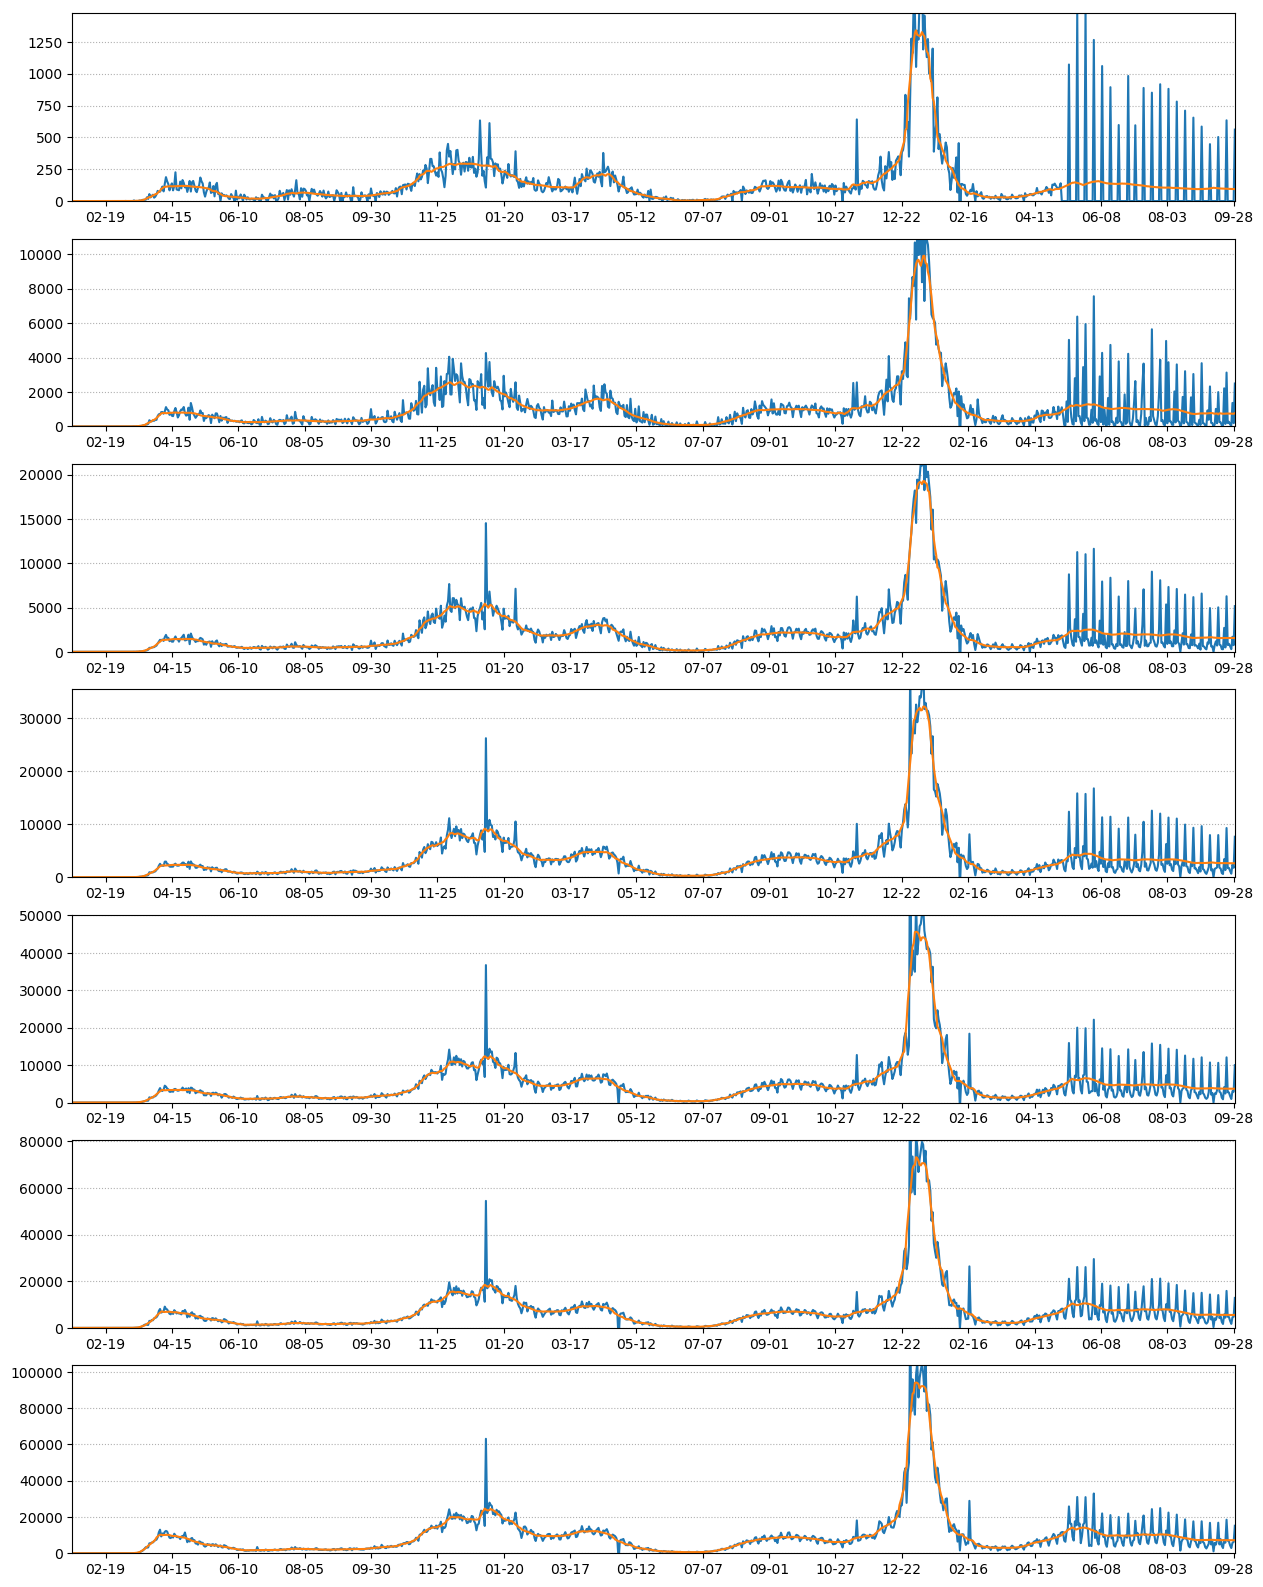
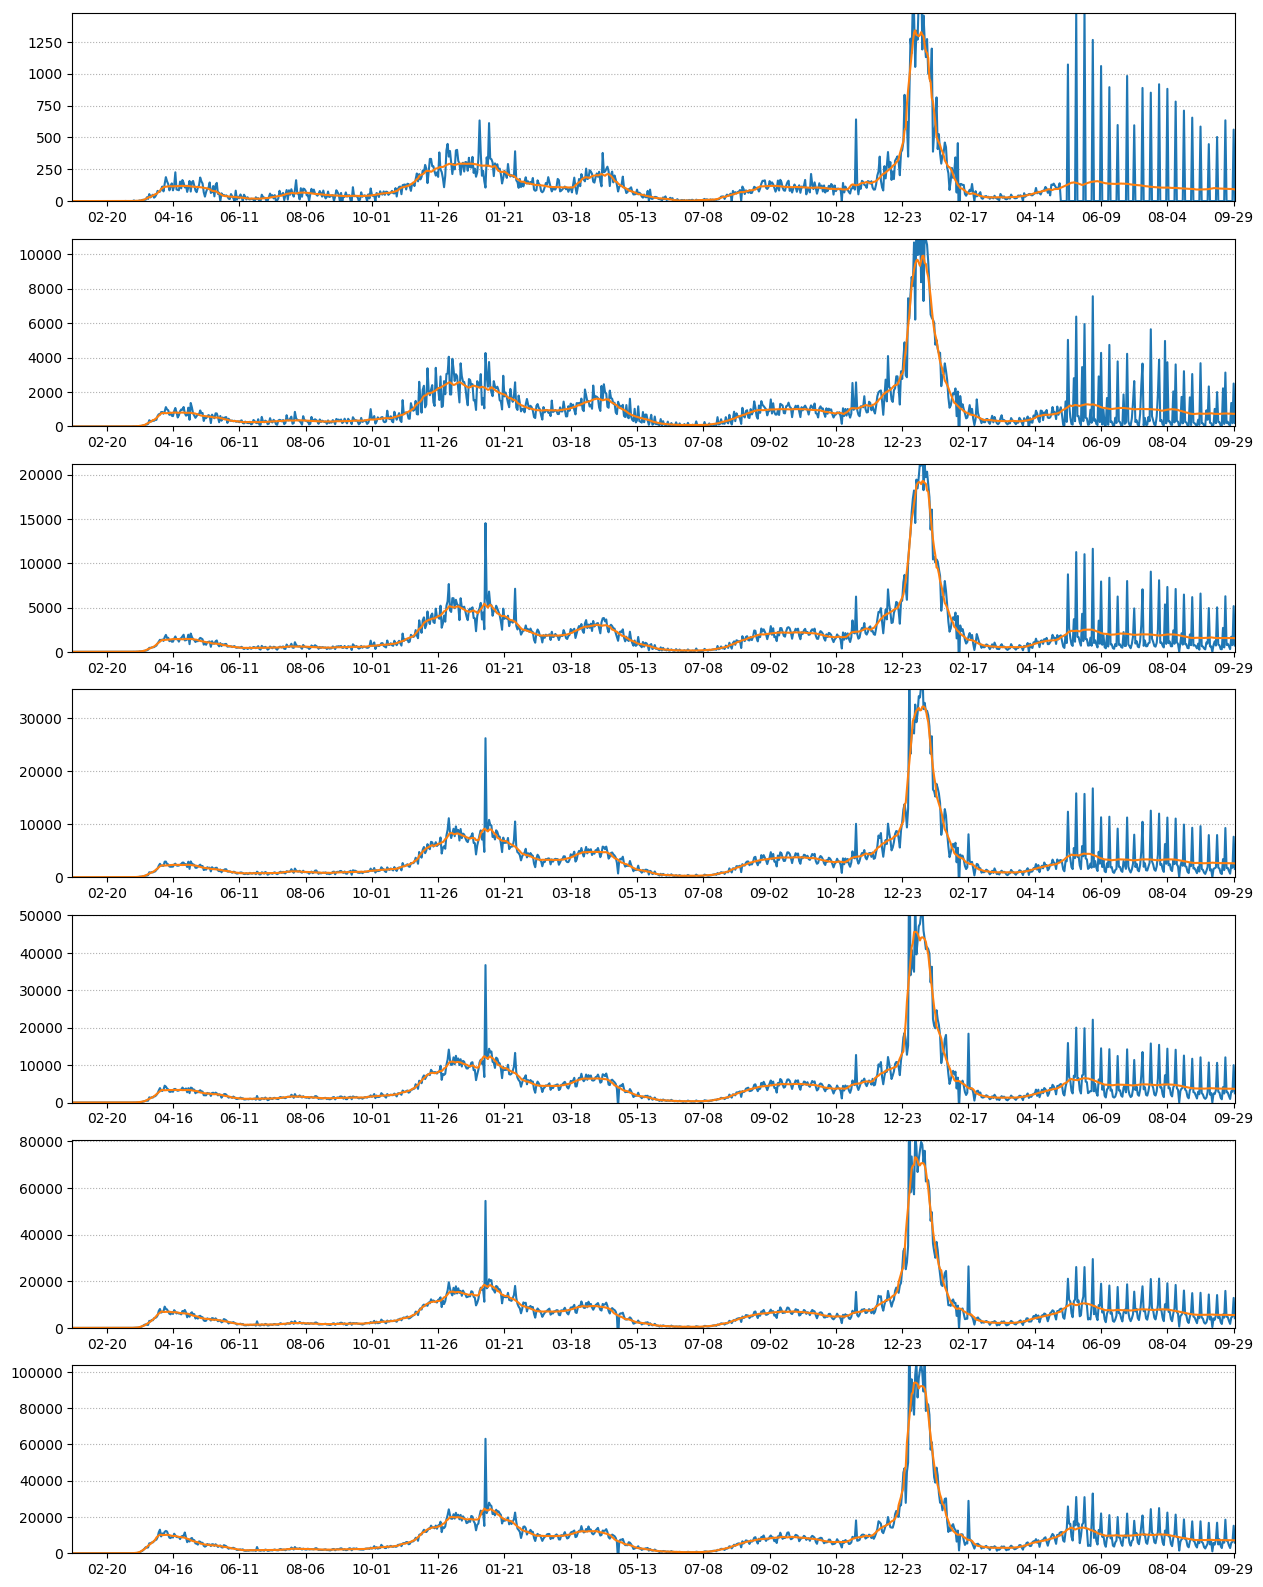
daily forecast

diff --git a/dailymessage.html b/dailymessage.html
@@ -1,46 +1,46 @@
 Delaware County COVID-19 Monitor<br>
-as of 2022-09-28<br>
+as of 2022-09-29<br>
 <table border="1" cellspacing="5" cellpadding="3">
 <tr>
 <td>0</td>
-<td>94</td>
+<td>91</td>
 <td>566747</td>
-<td>16.5</td>
+<td>16.0</td>
 </tr>
 <tr>
 <td>1</td>
-<td>771</td>
+<td>734</td>
 <td>4357104</td>
-<td>17.6</td>
+<td>16.8</td>
 </tr>
 <tr>
 <td>2</td>
-<td>1562</td>
+<td>1531</td>
 <td>8052045</td>
-<td>19.3</td>
+<td>19.0</td>
 </tr>
 <tr>
 <td>3</td>
-<td>2617</td>
+<td>2583</td>
 <td>13327166</td>
-<td>19.6</td>
+<td>19.3</td>
 </tr>
 <tr>
 <td>4</td>
-<td>3677</td>
+<td>3649</td>
 <td>18498878</td>
-<td>19.8</td>
+<td>19.7</td>
 </tr>
 <tr>
 <td>5</td>
-<td>5511</td>
+<td>5474</td>
 <td>27240755</td>
-<td>20.2</td>
+<td>20.0</td>
 </tr>
 <tr>
 <td>6</td>
-<td>7171</td>
+<td>7121</td>
 <td>34871340</td>
-<td>20.5</td>
+<td>20.4</td>
 </tr>
 </table>
